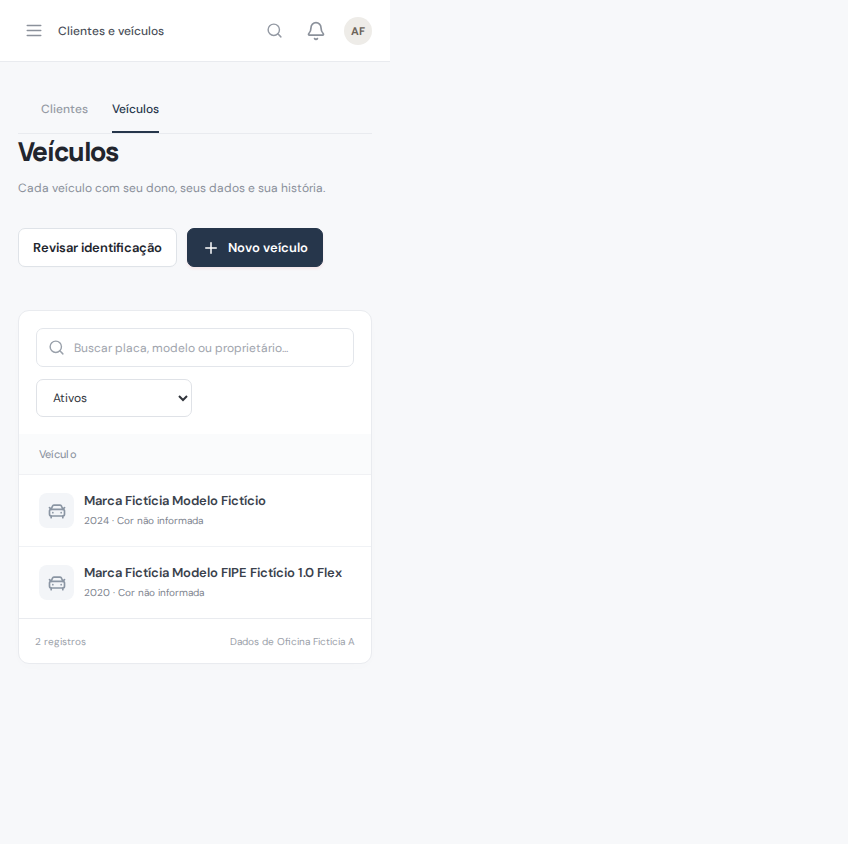
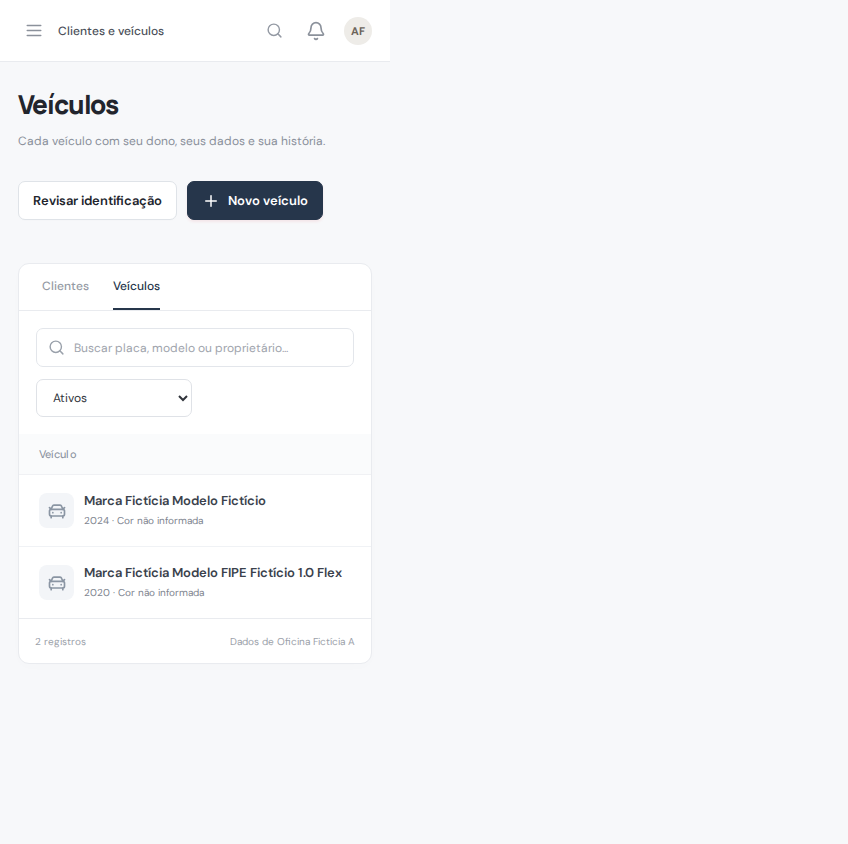
fix: alinhar abas de Clientes e Veículos ao padrão de Serviços (#93)
* fix(registers): place people tabs below page heading

* docs(registers): refresh desktop and mobile people tabs captures

Changed region(s): [[0.0, 0.0924, 0.3986, 0.3389], [0.0307, 0.2773, 0.184, 0.3697]]

diff --git a/src/pages/PeopleRegisters.tsx b/src/pages/PeopleRegisters.tsx
@@ -4,25 +4,29 @@ export function PeopleRegisters() {
   const [params, setParams] = useSearchParams();
   const vehicles = params.get("aba") === "veiculos";
   return (
-    <>
-      <div className="tabs">
+    <Registers
+      key={vehicles ? "vehicles" : "customers"}
+      kind={vehicles ? "vehicles" : "customers"}
+      tabs={<div className="tabs" role="tablist" aria-label="Cadastros de clientes e veículos">
         <button
+          type="button"
+          role="tab"
+          aria-selected={!vehicles}
           className={!vehicles ? "active" : ""}
           onClick={() => setParams({ aba: "clientes" })}
         >
           Clientes
         </button>
         <button
+          type="button"
+          role="tab"
+          aria-selected={vehicles}
           className={vehicles ? "active" : ""}
           onClick={() => setParams({ aba: "veiculos" })}
         >
           Veículos
         </button>
-      </div>
-      <Registers
-        key={vehicles ? "vehicles" : "customers"}
-        kind={vehicles ? "vehicles" : "customers"}
-      />
-    </>
+      </div>}
+    />
   );
 }

diff --git a/src/pages/Registers.tsx b/src/pages/Registers.tsx
@@ -61,7 +61,7 @@ const config = {
     icon: UserRound,
   },
 };
-export function Registers({ kind }: { kind: Kind }) {
+export function Registers({ kind, tabs }: { kind: Kind; tabs?: ReactNode }) {
   const { data, session, refresh } = useApp();
   const [params] = useSearchParams();
   const [search, setSearch] = useState(params.get("q") || "");
@@ -160,6 +160,7 @@ export function Registers({ kind }: { kind: Kind }) {
         />
       )}
       <section className={`panel register-panel${kind === "catalog" ? " products-register-panel" : ""}`}>
+        {tabs}
         <div className="table-toolbar">
           <SearchBox
             value={search}

diff --git a/docs/mapeamento-visual/CHECKLIST.md b/docs/mapeamento-visual/CHECKLIST.md
@@ -11,9 +11,9 @@ Estados: capturada, pendente, bloqueada e não aplicável.
 | dashboard-oficina-a | Dashboard | Visão geral da Oficina Fictícia A — Indicadores vazios da oficina de teste. | [`capturas/02-dashboard/dashboard-oficina.png`](./capturas/02-dashboard/dashboard-oficina.png) | capturada | 2026-10-22 | não registrado | Captura real com dados fictícios feita em 22/10/2026. O commit de origem não foi registrado; recaptura Playwright e atualização do commit estão pendentes. |
 | inicio-oficina-b | Dashboard | Início da Oficina Fictícia B — Menu e atalhos em uma segunda conta fictícia. | [`capturas/02-dashboard/inicio-oficina-oficina-b.png`](./capturas/02-dashboard/inicio-oficina-oficina-b.png) | capturada | 2026-10-22 | não registrado | Captura real com dados fictícios feita em 22/10/2026. O commit de origem não foi registrado; recaptura Playwright e atualização do commit estão pendentes. |
 | dashboard-oficina-b | Dashboard | Visão geral da Oficina Fictícia B — Indicadores da segunda conta fictícia para referência de isolamento. | [`capturas/02-dashboard/dashboard-oficina-b.png`](./capturas/02-dashboard/dashboard-oficina-b.png) | capturada | 2026-10-22 | não registrado | Captura real com dados fictícios feita em 22/10/2026. O commit de origem não foi registrado; recaptura Playwright e atualização do commit estão pendentes. |
-| clientes-lista-a | Clientes | Clientes da Oficina Fictícia A — Lista de clientes sem rótulo repetido abaixo das abas. | [`capturas/03-clientes/clientes-lista-oficina-a.png`](./capturas/03-clientes/clientes-lista-oficina-a.png) | capturada | 2026-11-02 | 862d4707a324e69538296a9f4de90fd6d4f36fd4 | — |
+| clientes-lista-a | Clientes | Clientes da Oficina Fictícia A — Lista de clientes com abas abaixo do cabeçalho. | [`capturas/03-clientes/clientes-lista-oficina-a.png`](./capturas/03-clientes/clientes-lista-oficina-a.png) | capturada | 2026-11-02 | 1ff8b23afa9003fed6f1135c110aeb02920c9a8e | — |
 | clientes-lista-b | Clientes | Clientes da Oficina Fictícia B — Lista da segunda oficina fictícia; não contém registros da Oficina A. | [`capturas/03-clientes/clientes-lista-oficina-b.png`](./capturas/03-clientes/clientes-lista-oficina-b.png) | capturada | 2026-10-22 | não registrado | Captura real com dados fictícios feita em 22/10/2026. O commit de origem não foi registrado; recaptura Playwright e atualização do commit estão pendentes. |
-| veiculos-lista-a | Veículos | Veículos da Oficina Fictícia A — Lista de veículos sem rótulo repetido abaixo das abas. | [`capturas/04-veiculos/veiculos-lista-oficina-a.png`](./capturas/04-veiculos/veiculos-lista-oficina-a.png) | capturada | 2026-11-02 | 862d4707a324e69538296a9f4de90fd6d4f36fd4 | — |
+| veiculos-lista-a | Veículos | Veículos da Oficina Fictícia A — Lista de veículos com abas abaixo do cabeçalho. | [`capturas/04-veiculos/veiculos-lista-oficina-a.png`](./capturas/04-veiculos/veiculos-lista-oficina-a.png) | capturada | 2026-11-02 | 1ff8b23afa9003fed6f1135c110aeb02920c9a8e | — |
 | veiculos-lista-b | Veículos | Veículos da Oficina Fictícia B — Lista de veículos da segunda oficina fictícia. | [`capturas/04-veiculos/veiculos-lista-oficina-b.png`](./capturas/04-veiculos/veiculos-lista-oficina-b.png) | capturada | 2026-10-22 | não registrado | Captura real com dados fictícios feita em 22/10/2026. O commit de origem não foi registrado; recaptura Playwright e atualização do commit estão pendentes. |
 | checklist-lista | Checklist | Lista de checklists — Estado vazio da lista de checklists. | [`capturas/05-checklist/lista-checklists.png`](./capturas/05-checklist/lista-checklists.png) | capturada | 2026-10-22 | não registrado | Captura real com dados fictícios feita em 22/10/2026. O commit de origem não foi registrado; recaptura Playwright e atualização do commit estão pendentes. |
 | checklist-novo | Checklist | Novo checklist — Estado inicial do formulário; não foi criado nenhum registro. | [`capturas/05-checklist/novo-checklist.png`](./capturas/05-checklist/novo-checklist.png) | capturada | 2026-10-22 | não registrado | Captura real com dados fictícios feita em 22/10/2026. O commit de origem não foi registrado; recaptura Playwright e atualização do commit estão pendentes. |
@@ -45,9 +45,9 @@ Estados: capturada, pendente, bloqueada e não aplicável.
 | dashboard-oficina-a-desktop | Dashboard | Visão geral da Oficina Fictícia A — Indicadores vazios da oficina de teste. | `capturas/02-dashboard/dashboard-oficina-desktop.png` (previsto) | pendente | — | não registrado | Variante desktop ainda não foi gerada. Execute a captura Playwright em ambiente local de teste. |
 | inicio-oficina-b-desktop | Dashboard | Início da Oficina Fictícia B — Menu e atalhos em uma segunda conta fictícia. | `capturas/02-dashboard/inicio-oficina-oficina-b-desktop.png` (previsto) | pendente | — | não registrado | Variante desktop ainda não foi gerada. Execute a captura Playwright em ambiente local de teste. |
 | dashboard-oficina-b-desktop | Dashboard | Visão geral da Oficina Fictícia B — Indicadores da segunda conta fictícia para referência de isolamento. | `capturas/02-dashboard/dashboard-oficina-b-desktop.png` (previsto) | pendente | — | não registrado | Variante desktop ainda não foi gerada. Execute a captura Playwright em ambiente local de teste. |
-| clientes-lista-a-desktop | Clientes | Clientes da Oficina Fictícia A — Lista e pesquisa com dados de demonstração. | `capturas/03-clientes/clientes-lista-oficina-a-desktop.png` (previsto) | pendente | — | não registrado | Variante desktop ainda não foi gerada. Execute a captura Playwright em ambiente local de teste. |
+| clientes-lista-a-desktop | Clientes | Clientes da Oficina Fictícia A — Lista de clientes com abas abaixo do cabeçalho. | [`capturas/03-clientes/clientes-lista-oficina-a-desktop.png`](./capturas/03-clientes/clientes-lista-oficina-a-desktop.png) | capturada | 2026-11-02 | 1ff8b23afa9003fed6f1135c110aeb02920c9a8e | — |
 | clientes-lista-b-desktop | Clientes | Clientes da Oficina Fictícia B — Lista da segunda oficina fictícia; não contém registros da Oficina A. | `capturas/03-clientes/clientes-lista-oficina-b-desktop.png` (previsto) | pendente | — | não registrado | Variante desktop ainda não foi gerada. Execute a captura Playwright em ambiente local de teste. |
-| veiculos-lista-a-desktop | Veículos | Veículos da Oficina Fictícia A — Lista de veículos e vínculo com cliente fictício. | `capturas/04-veiculos/veiculos-lista-oficina-a-desktop.png` (previsto) | pendente | — | não registrado | Variante desktop ainda não foi gerada. Execute a captura Playwright em ambiente local de teste. |
+| veiculos-lista-a-desktop | Veículos | Veículos da Oficina Fictícia A — Lista de veículos com abas abaixo do cabeçalho. | [`capturas/04-veiculos/veiculos-lista-oficina-a-desktop.png`](./capturas/04-veiculos/veiculos-lista-oficina-a-desktop.png) | capturada | 2026-11-02 | 1ff8b23afa9003fed6f1135c110aeb02920c9a8e | — |
 | veiculos-lista-b-desktop | Veículos | Veículos da Oficina Fictícia B — Lista de veículos da segunda oficina fictícia. | `capturas/04-veiculos/veiculos-lista-oficina-b-desktop.png` (previsto) | pendente | — | não registrado | Variante desktop ainda não foi gerada. Execute a captura Playwright em ambiente local de teste. |
 | checklist-lista-desktop | Checklist | Lista de checklists — Estado vazio da lista de checklists. | `capturas/05-checklist/lista-checklists-desktop.png` (previsto) | pendente | — | não registrado | Variante desktop ainda não foi gerada. Execute a captura Playwright em ambiente local de teste. |
 | checklist-novo-desktop | Checklist | Novo checklist — Estado inicial do formulário; não foi criado nenhum registro. | `capturas/05-checklist/novo-checklist-desktop.png` (previsto) | pendente | — | não registrado | Variante desktop ainda não foi gerada. Execute a captura Playwright em ambiente local de teste. |

diff --git a/docs/mapeamento-visual/INDEX.md b/docs/mapeamento-visual/INDEX.md
@@ -56,11 +56,11 @@ Lista, pesquisa, cadastro e edição de clientes.
 
 ### Clientes da Oficina Fictícia A
 
-Lista de clientes sem rótulo repetido abaixo das abas.
+Lista de clientes com abas abaixo do cabeçalho.
 
 [![Clientes da Oficina Fictícia A](./capturas/03-clientes/clientes-lista-oficina-a.png)](./capturas/03-clientes/clientes-lista-oficina-a.png)
 
-Estado: capturada · mobile · captura 2026-11-02 · commit de origem: 862d4707a324e69538296a9f4de90fd6d4f36fd4 · [arquivo completo](./capturas/03-clientes/clientes-lista-oficina-a.png)
+Estado: capturada · mobile · captura 2026-11-02 · commit de origem: 1ff8b23afa9003fed6f1135c110aeb02920c9a8e · [arquivo completo](./capturas/03-clientes/clientes-lista-oficina-a.png)
 
 ### Clientes da Oficina Fictícia B
 
@@ -70,17 +70,25 @@ Lista da segunda oficina fictícia; não contém registros da Oficina A.
 
 Estado: capturada · mobile · captura 2026-10-22 · commit de origem: não registrado · [arquivo completo](./capturas/03-clientes/clientes-lista-oficina-b.png)
 
+### Clientes da Oficina Fictícia A
+
+Lista de clientes com abas abaixo do cabeçalho.
+
+[![Clientes da Oficina Fictícia A](./capturas/03-clientes/clientes-lista-oficina-a-desktop.png)](./capturas/03-clientes/clientes-lista-oficina-a-desktop.png)
+
+Estado: capturada · desktop · captura 2026-11-02 · commit de origem: 1ff8b23afa9003fed6f1135c110aeb02920c9a8e · [arquivo completo](./capturas/03-clientes/clientes-lista-oficina-a-desktop.png)
+
 ## 04 — Veículos
 
 Lista, pesquisa, seleção e edição de veículos.
 
 ### Veículos da Oficina Fictícia A
 
-Lista de veículos sem rótulo repetido abaixo das abas.
+Lista de veículos com abas abaixo do cabeçalho.
 
 [![Veículos da Oficina Fictícia A](./capturas/04-veiculos/veiculos-lista-oficina-a.png)](./capturas/04-veiculos/veiculos-lista-oficina-a.png)
 
-Estado: capturada · mobile · captura 2026-11-02 · commit de origem: 862d4707a324e69538296a9f4de90fd6d4f36fd4 · [arquivo completo](./capturas/04-veiculos/veiculos-lista-oficina-a.png)
+Estado: capturada · mobile · captura 2026-11-02 · commit de origem: 1ff8b23afa9003fed6f1135c110aeb02920c9a8e · [arquivo completo](./capturas/04-veiculos/veiculos-lista-oficina-a.png)
 
 ### Veículos da Oficina Fictícia B
 
@@ -89,6 +97,14 @@ Lista de veículos da segunda oficina fictícia.
 [![Veículos da Oficina Fictícia B](./capturas/04-veiculos/veiculos-lista-oficina-b.png)](./capturas/04-veiculos/veiculos-lista-oficina-b.png)
 
 Estado: capturada · mobile · captura 2026-10-22 · commit de origem: não registrado · [arquivo completo](./capturas/04-veiculos/veiculos-lista-oficina-b.png)
+
+### Veículos da Oficina Fictícia A
+
+Lista de veículos com abas abaixo do cabeçalho.
+
+[![Veículos da Oficina Fictícia A](./capturas/04-veiculos/veiculos-lista-oficina-a-desktop.png)](./capturas/04-veiculos/veiculos-lista-oficina-a-desktop.png)
+
+Estado: capturada · desktop · captura 2026-11-02 · commit de origem: 1ff8b23afa9003fed6f1135c110aeb02920c9a8e · [arquivo completo](./capturas/04-veiculos/veiculos-lista-oficina-a-desktop.png)
 
 ### CAD-005 — Novo veículo (desktop)
 

diff --git a/docs/mapeamento-visual/README.md b/docs/mapeamento-visual/README.md
@@ -23,4 +23,4 @@ Capturas que criem, editem ou finalizem registros só podem usar base PostgreSQL
 
 ## Coleta atual
 
-O acervo inclui 70 PNGs de telas reais. Consulte a data e o commit de cada entrada: as capturas originais de 22/10/2026 não registraram o commit e continuam sinalizadas. Capturas ADM-002.1 usam Chromium com respostas de API fictícias e não comprovam o backend; a integração PostgreSQL é testada separadamente no CI. Nenhuma credencial, token ou dado real deve aparecer nas imagens.
+O acervo inclui 72 PNGs de telas reais. Consulte a data e o commit de cada entrada: as capturas originais de 22/10/2026 não registraram o commit e continuam sinalizadas. Capturas ADM-002.1 usam Chromium com respostas de API fictícias e não comprovam o backend; a integração PostgreSQL é testada separadamente no CI. Nenhuma credencial, token ou dado real deve aparecer nas imagens.
